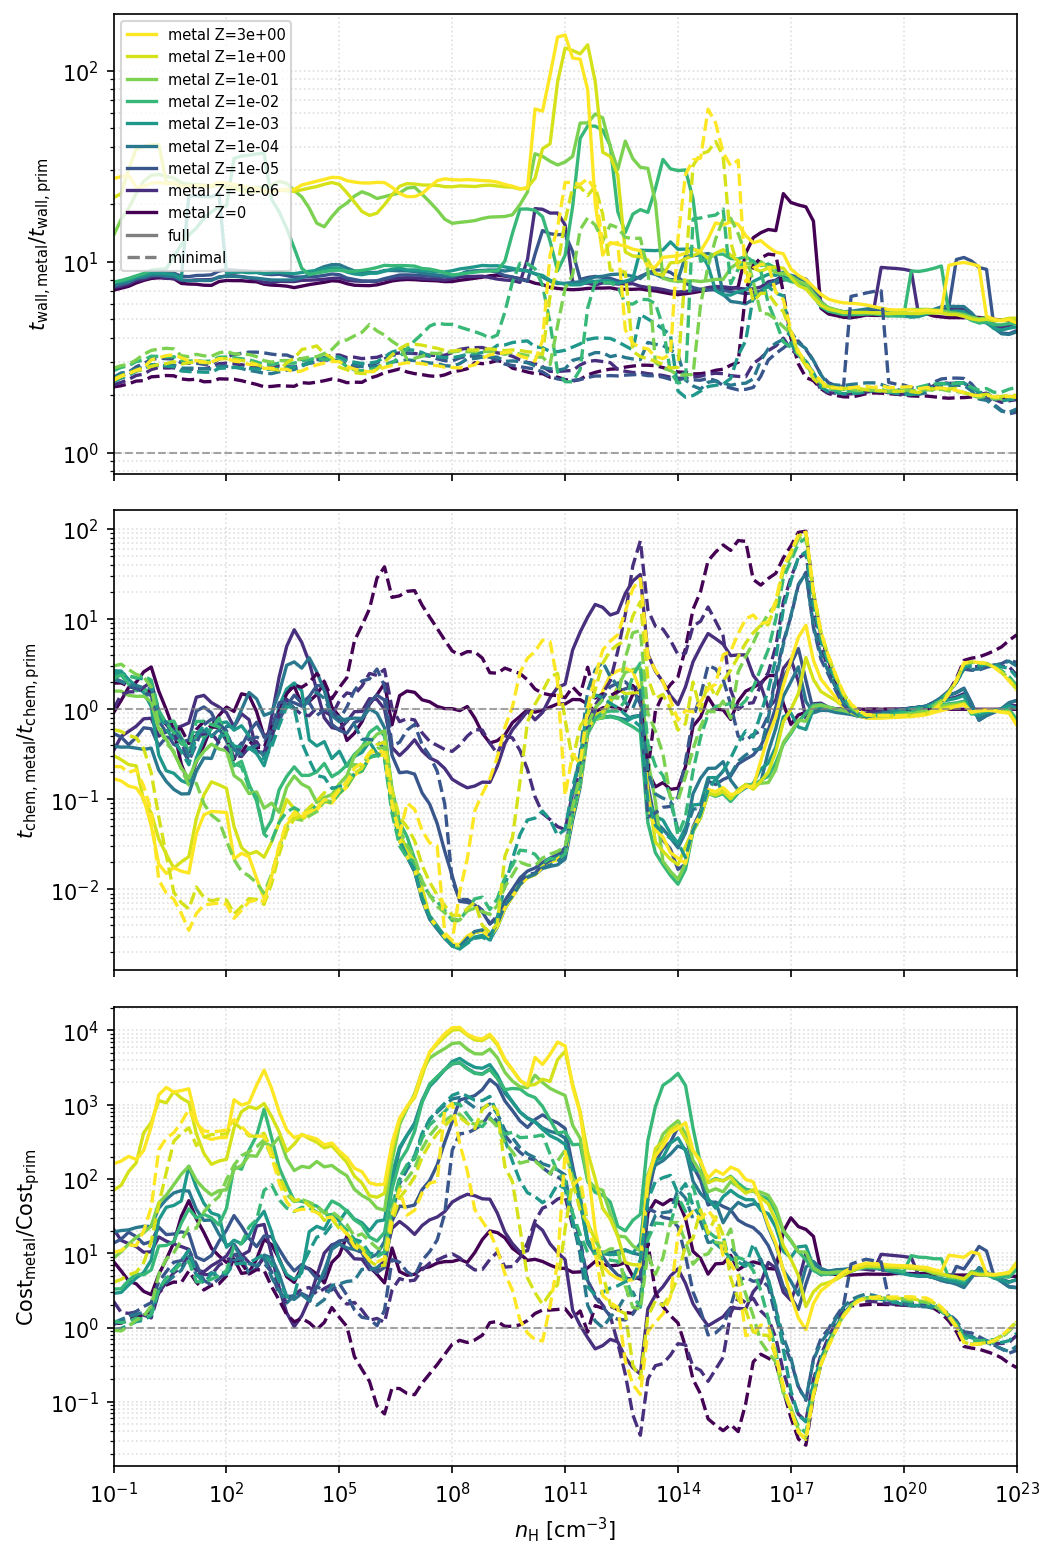
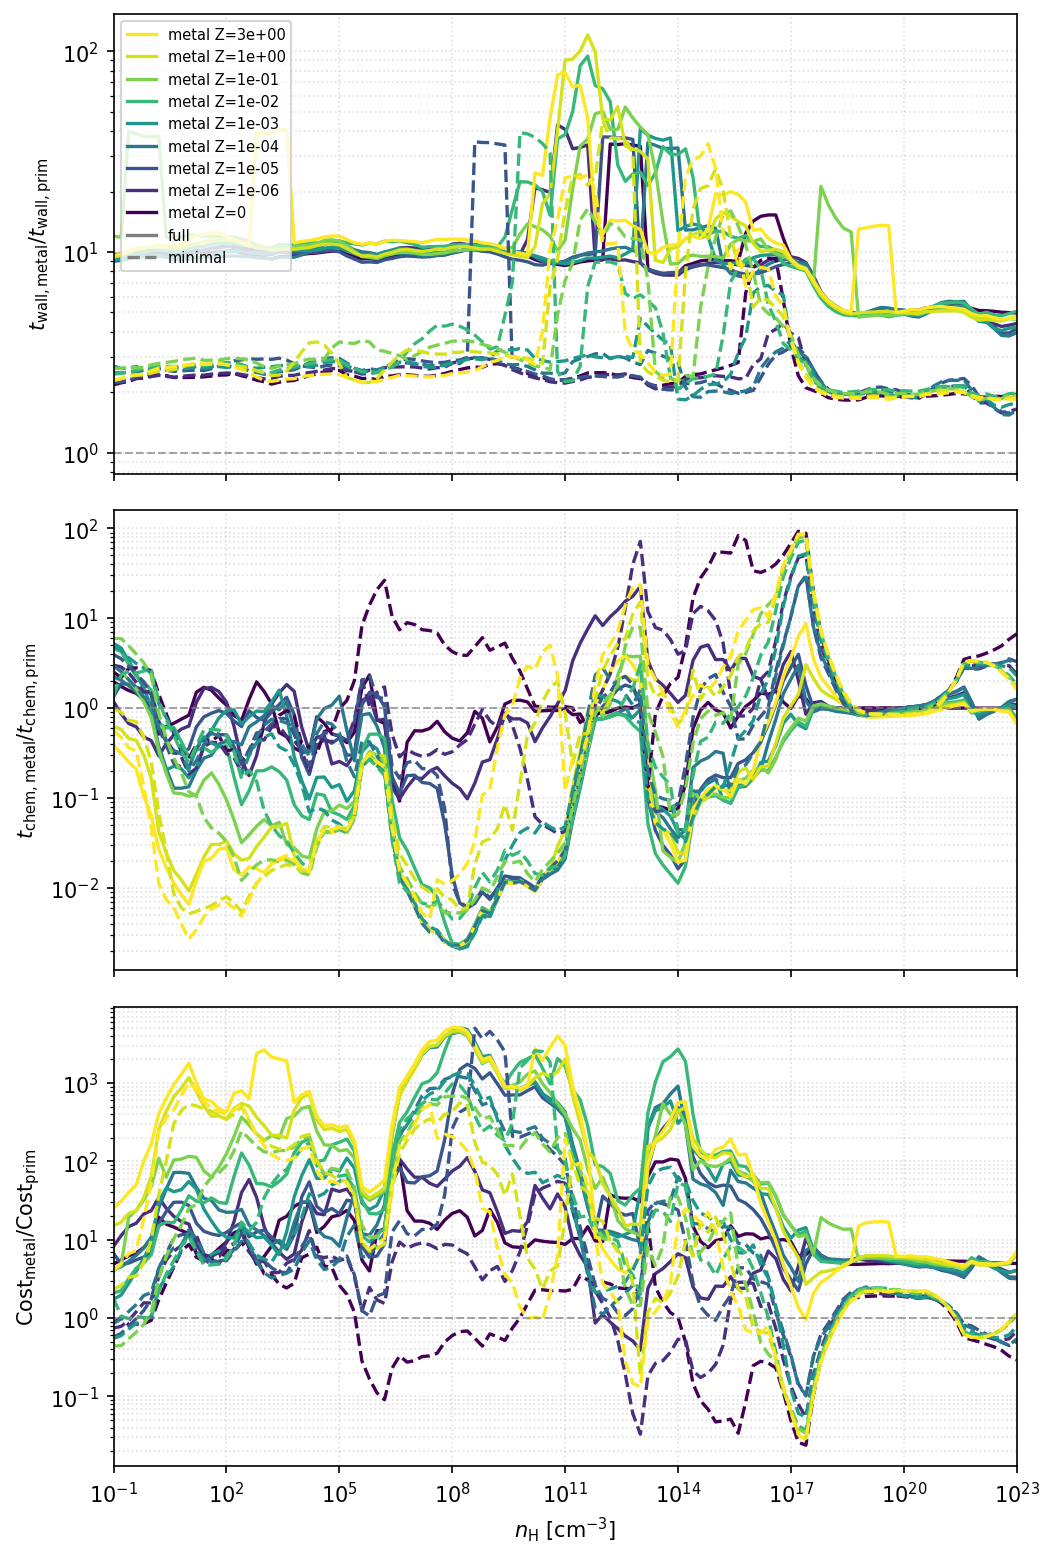
docs: describe the 2.0.1 fixes and regenerate the figures
release_notes adds the 2.0.1 section: the grain-reaction switch, the
coverage terms of the Newton Jacobian, the HD escape fraction, the start
of a Saha step of the grain evaporation, the -march build flags and the
collapse tests, with how much each fix changes the results.

The Quick Start cases 4 and 5, the reproductions of Figs. 10 and 11 of
Nakauchi, Omukai & Susa (2021) and the benchmark figures are regenerated,
and benchmark_timing records the new measurement (ARCHE 2.0.1, icpx
-march=native): the per-step time of the full metal network is 427-473 us
and the minimal one 104-121 us.

diff --git a/docs/release_notes.md b/docs/release_notes.md
@@ -1,5 +1,85 @@
 # Release notes
 
+## 2.0.1
+
+ARCHE 2.0.1 fixes the switch of the grain reactions, the Newton iteration of the
+metal network, the HD line cooling above T ≈ 6.8e3 K and the start of a Saha step
+of the grain evaporation, and builds with Intel `icpx` on AMD processors. The
+library API and ABI are those of 2.0.0. Numerical output is not bit-identical to
+2.0.0; each fix below states how much the results change.
+
+### Fixes
+
+- The grain reactions of the metal networks (grain charge transfer and
+  grain-surface reactions) are switched off when the grain volume falls below
+  1e-10 of the volume of the cold grains, instead of at a grain temperature of
+  1.025 max(T_ir, T_pyr, T_ol). The old switch is where an earlier, linear
+  grain-volume law reached zero; with the current law about 2% of the grains
+  remain there, and the step in the chemical cooling held the gas temperature at
+  the switch: a metal Minimal collapse with Z = 1 Z☉, ζ = 1e-15 s⁻¹ and
+  f_ret = 10 took 124 s and now takes 21 s. The rates already scale with the
+  remaining grains, so the new switch is a negligible step. While grains remain
+  they keep capturing electrons, which removes a jump of the electron abundance
+  by up to 4 dex at the old switch. T changes by at most 2.8e-3 dex (metal
+  Minimal, Z = 1 Z☉) and 2.8e-6 dex (metal full); the abundances of e⁻, Mg⁺ and
+  the charged grains change within 0.1–0.7 dex of n_H around the grain
+  evaporation (n_H ≈ 1e15–1e17 cm⁻³). The primordial networks are unchanged.
+- The Newton iterations of the metal network (`Nakauchi2021`) include how the
+  grain-surface rate coefficients depend on the physisorbed H2 and H2O and on the
+  chemisorbed H and D (surface coverage). Without it the iteration for the
+  physisorbed H2 oscillated where its desorption depends on its own coverage, and
+  every step fell back to the slower fixed-temperature solve: a metal collapse with
+  Z = 1 Z☉ and ζ = 1e-15 s⁻¹ took up to 24 min and now takes under 2 min. The
+  equations are unchanged; the results change within the solver tolerance (T by
+  less than 1e-3 dex, abundances above 1e-10 by less than 1e-2 dex, except where a
+  steep front moves by at most 0.005 dex in n_H). The minimal networks and the
+  primordial networks are unchanged.
+- The HD line escape fraction is bounded by 1. Its α(T) fit turns negative above
+  T ≈ 6.8e3 K, where the formula gives an escape fraction above 1 and, for a large
+  HD column, overflows. Where the continuum is optically thick enough that
+  exp(−τ_cnt) underflows to 0, the HD cooling is now 0 instead of 0 · ∞ = NaN. The
+  NaN had stopped metal collapses with `solver_failed` (exit code 5) near
+  n_H ≈ 2.6e22 cm⁻³ and T ≈ 1.7e4 K, for example Z = 1e-5 Z☉ with f_ret = 10.
+  In collapses that did not stop, T changes by at most 9e-13 dex.
+- A step of the grain evaporation in its Saha regime (n_H > 1e18 cm⁻³) starts
+  from non-negative amounts of the metals still locked in the grains. On the last
+  step of a complete evaporation, an amount that the release drains could start a
+  rounding error below 0; the step was then rejected and the collapse stopped with
+  `solver_failed` (exit code 5). Whether this happened depended on whether the
+  build fuses multiply-adds: with `g++ -march=native` it stopped the metal
+  collapses with f_ret = 10, Z = 1e-3, 1e-4 and 1e-6 Z☉ and ζ = 1e-19, 1e-17 and
+  1e-15 s⁻¹, which now reach n_H = 1e20 cm⁻³. Only the start of that step
+  changes; collapses that did not stop change by less than 1e-9 (relative).
+
+### Build
+
+- With Intel `icpx`, ARCHE compiles with `-march=native` instead of `-xHost`.
+  The `-x` options embed an Intel-only processor check, so a binary built with
+  `-xHost` aborts on AMD processors. On an Intel processor the two flags gave
+  bit-identical output in the four collapses compared (primordial and metal,
+  full and minimal networks).
+- New CMake cache variable `ARCHE_MARCH` (default `native`) sets the
+  `-march=<value>` flag; an empty value adds none. See
+  [Getting Started](getting_started.md#target-cpu-arche_march).
+- The CPU and floating-point flags (`-march`, and `-fp-model=precise` with
+  `icpx`) are applied in every build type, not only `Release`. An unset
+  `CMAKE_BUILD_TYPE` defaults to `Release` when ARCHE is the top-level project.
+- These flags are no longer part of the usage requirements of `arche::arche`.
+  A project that links libarche (installed, or through `add_subdirectory`)
+  keeps its own CPU and floating-point flags; before, it received `-march=native`
+  (GNU) or `-xHost -fp-model=precise` (`icpx`) in its `Release` build.
+
+### Tests
+
+- New collapse tests in [`tests/collapse/`](../tests/collapse/README.md): 160
+  one-zone collapses over the four networks, ζ, f_ret, Z and J_LW21, each of which
+  must reach n_H = 1e23 cm⁻³ normally within a wall-time gate, and a comparison of
+  the temperature tracks of 16 of them across builds (`icpx`, and `g++` without
+  `-march`). `tools/ci/run_local.sh` builds ARCHE and runs them on a local machine.
+- The GitHub Actions workflow `.github/workflows/collapse-tests.yml` runs them on
+  every pull request, together with an `ARCHE_XRAY=ON` build and the
+  [`integration/`](../integration/README.md) consumers of an installed ARCHE.
+
 ## 2.0.0
 
 ARCHE 2.0.0 solves every model with one error-controlled integrator, moves the

diff --git a/docs/benchmark_timing.md b/docs/benchmark_timing.md
@@ -26,8 +26,8 @@ record of one measurement rather than a procedure to reproduce:
 
 | Item | Value |
 |---|---|
-| Code | ARCHE 2.0.0 development tree (integrator as released) |
-| Compiler | Intel oneAPI icpx/icx 2025.0, `CMAKE_BUILD_TYPE=Release` (`-xHost -fp-model=precise`) |
+| Code | ARCHE 2.0.1 |
+| Compiler | Intel oneAPI icpx/icx 2025.0, `CMAKE_BUILD_TYPE=Release` (`-march=native -fp-model=precise`) |
 | Runs | 20 collapses (prim and metal, full and minimal), one at a time, once each |
 | Machine | not recorded |
 
@@ -128,10 +128,10 @@ full network and the hatched bar the minimal network — so the cost saved by th
 compact network is read off directly.
 
 The cumulative value integrates the local estimate over the full benchmark
-density range, up to the `n_H = 10²³ cm⁻³` ceiling.  It is 4.4–6.7 for the full
-network and 0.52–0.93 for the minimal network.  The local estimate (bottom panel
+density range, up to the `n_H = 10²³ cm⁻³` ceiling.  It is 4.1–5.6 for the full
+network and 0.51–0.86 for the minimal network.  The local estimate (bottom panel
 above) is largest at `n_H ~ 10⁸–10¹¹ cm⁻³` and near `10¹⁴ cm⁻³`; integrating
-only up to `n_H = 10²⁰ cm⁻³` gives 5.9–13.2 (full) and 0.89–2.3 (minimal).  A
+only up to `n_H = 10²⁰ cm⁻³` gives 5.5–14.7 (full) and 0.82–1.5 (minimal).  A
 value below 1 means that the minimal network's longer `t_chem` more than offsets
 its per-step cost relative to prim.  The number is a property of the chosen
 density range as much as of the network, and should be read together with the
@@ -153,10 +153,10 @@ primordial (`prim_collapse`, 23 species, vs `arche_collapse_prim_minimal`,
   noisier — a single contended segment can shift it by an order of magnitude,
   occasionally even making the smaller network appear slower.
 - `×N` above each pair is the full/minimal speed-up.  The minimal network is
-  ≈2.3× faster for primordial (42 µs vs 18.5 µs) and ≈2.9–3.9× faster for
-  metal-grain (330–450 µs vs 100–125 µs).  The minimal per-step time is nearly
-  flat across metallicity, while the full one rises with Z (334 µs at Z = 0 to
-  449 µs at Z = 3), so the speed-up is largest at high metallicity.
+  ≈2.3× faster for primordial (43 µs vs 18.6 µs) and ≈3.7–4.3× faster for
+  metal-grain (427–473 µs vs 104–121 µs).  Both per-step times depend only
+  weakly on metallicity: the full one is 427 µs at Z = 0 and 473 µs at Z = 3,
+  the minimal one 104–121 µs.
 - The speed-up is below the naive species-count ratio (e.g. `(95/44)³`): the
   implicit solve is only one part of `chem_full_step`, and the per-call fixed
   costs (rate evaluation, cooling, table lookups) are shared.
